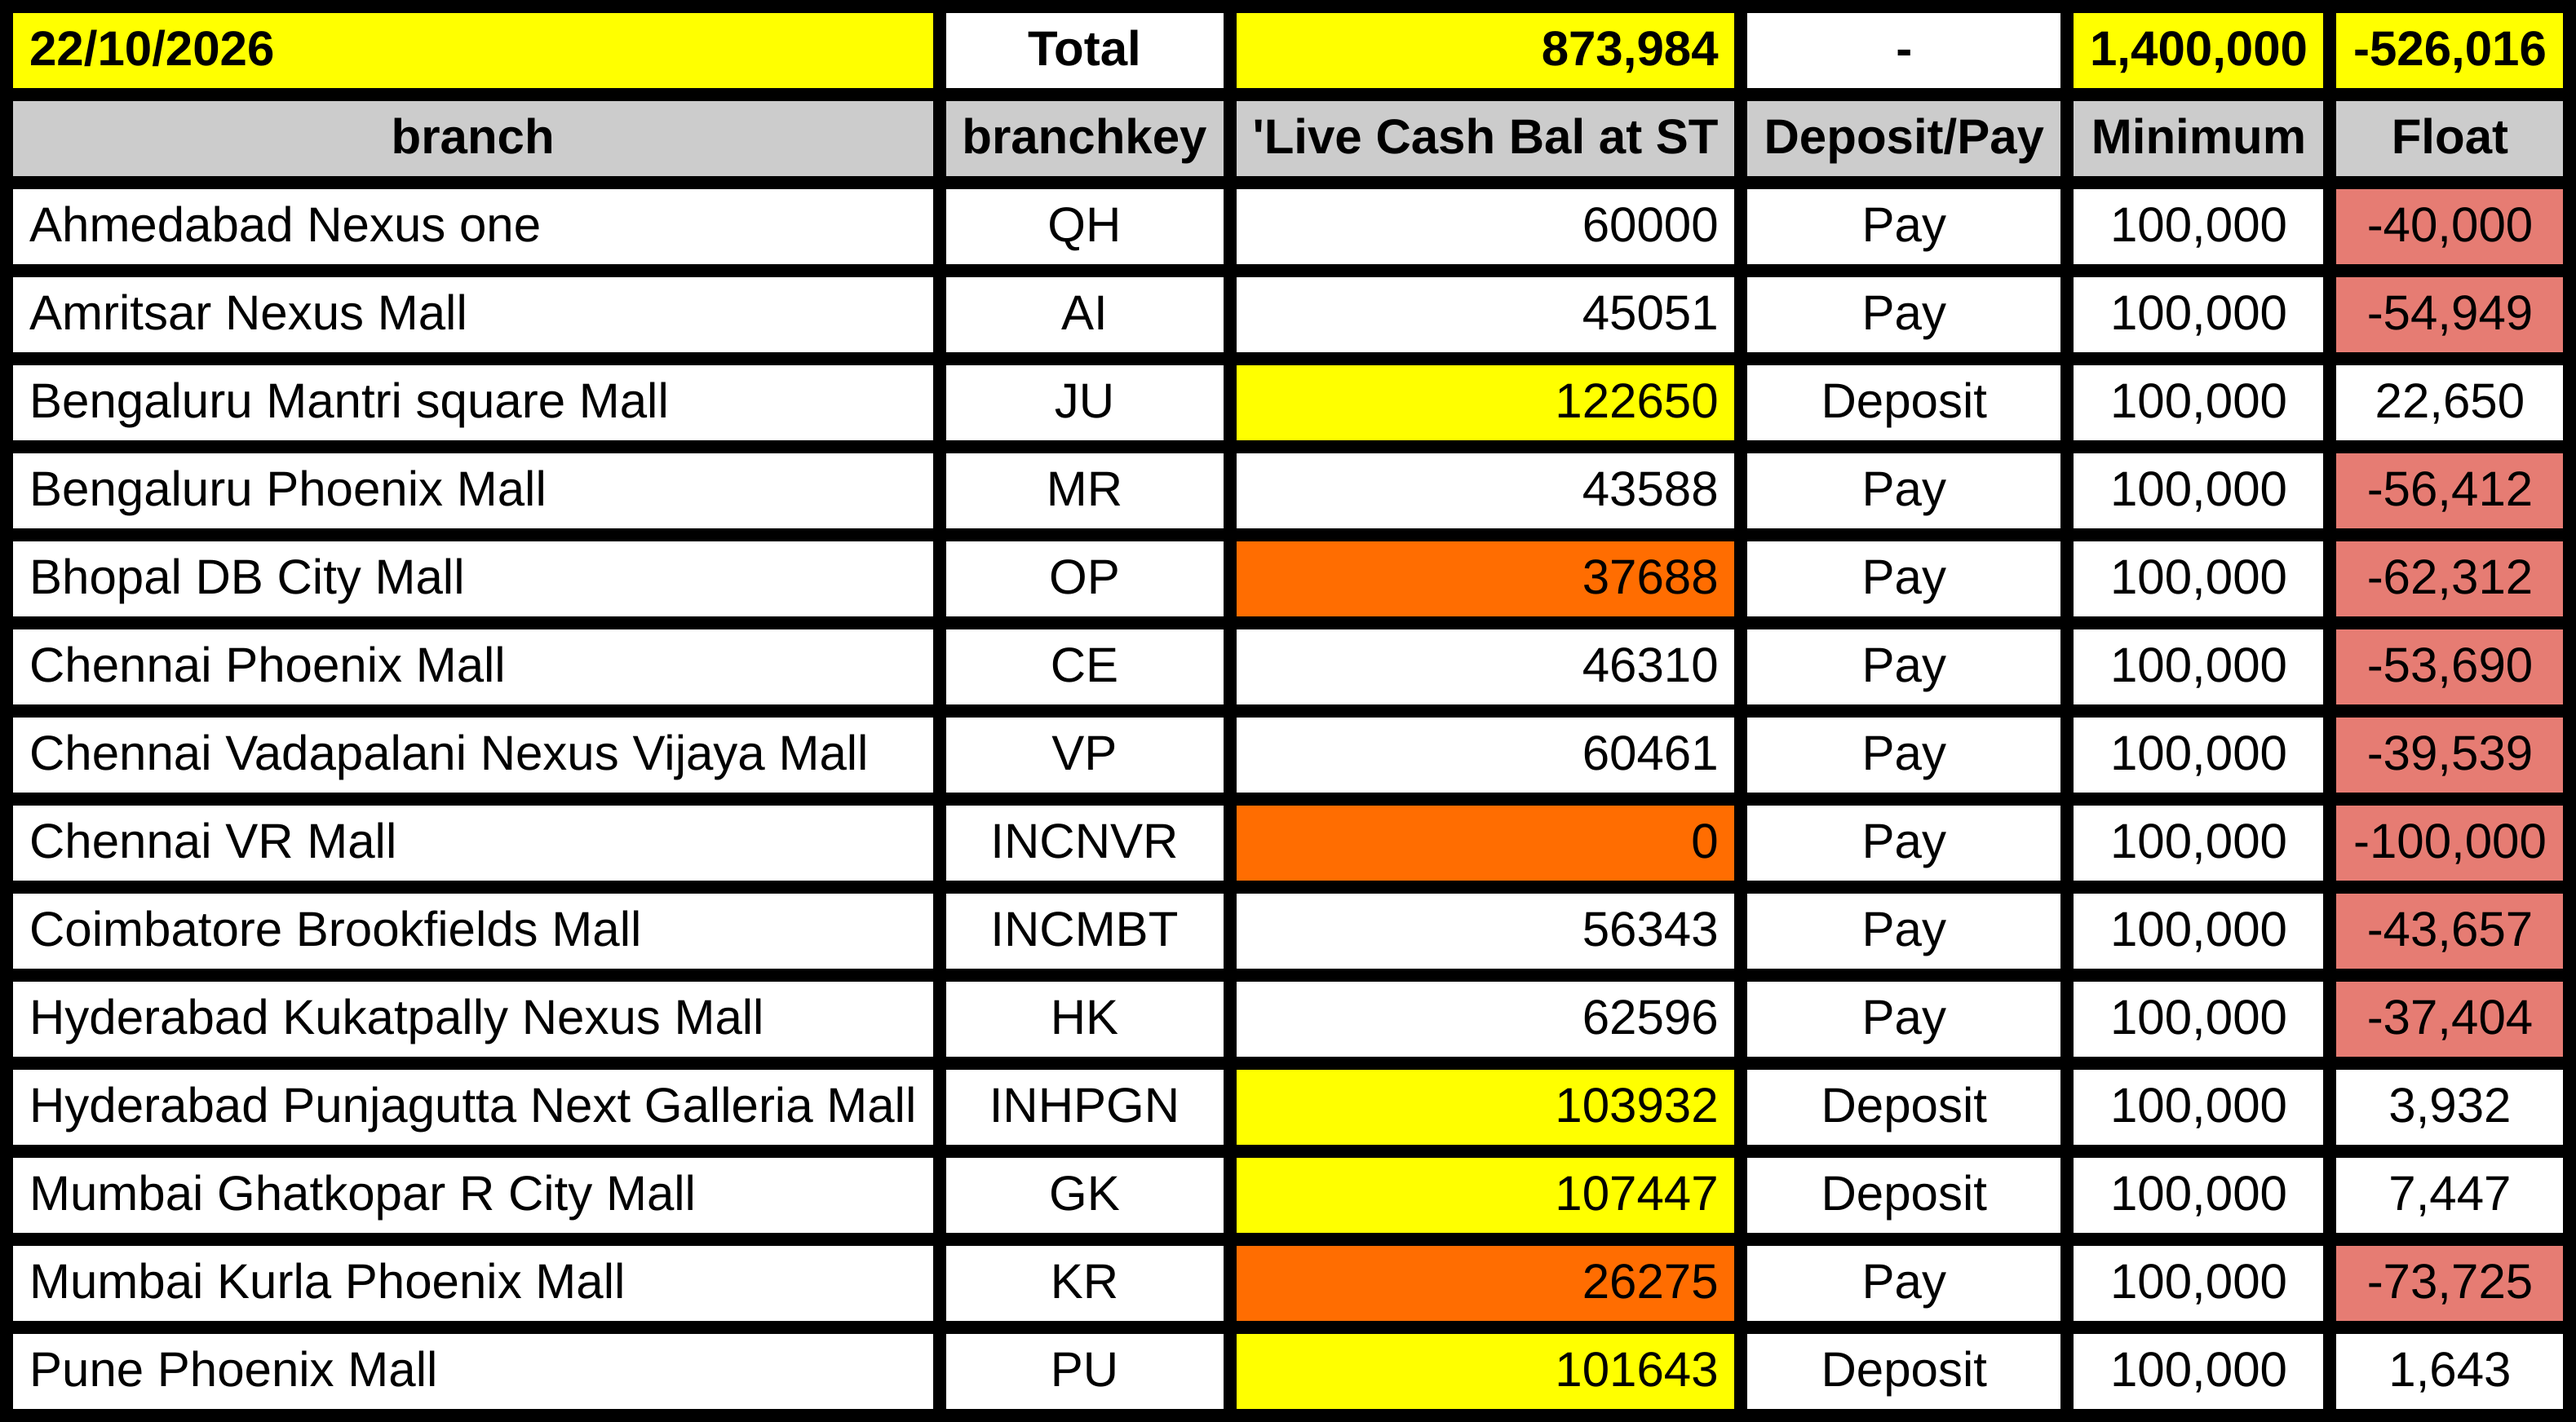
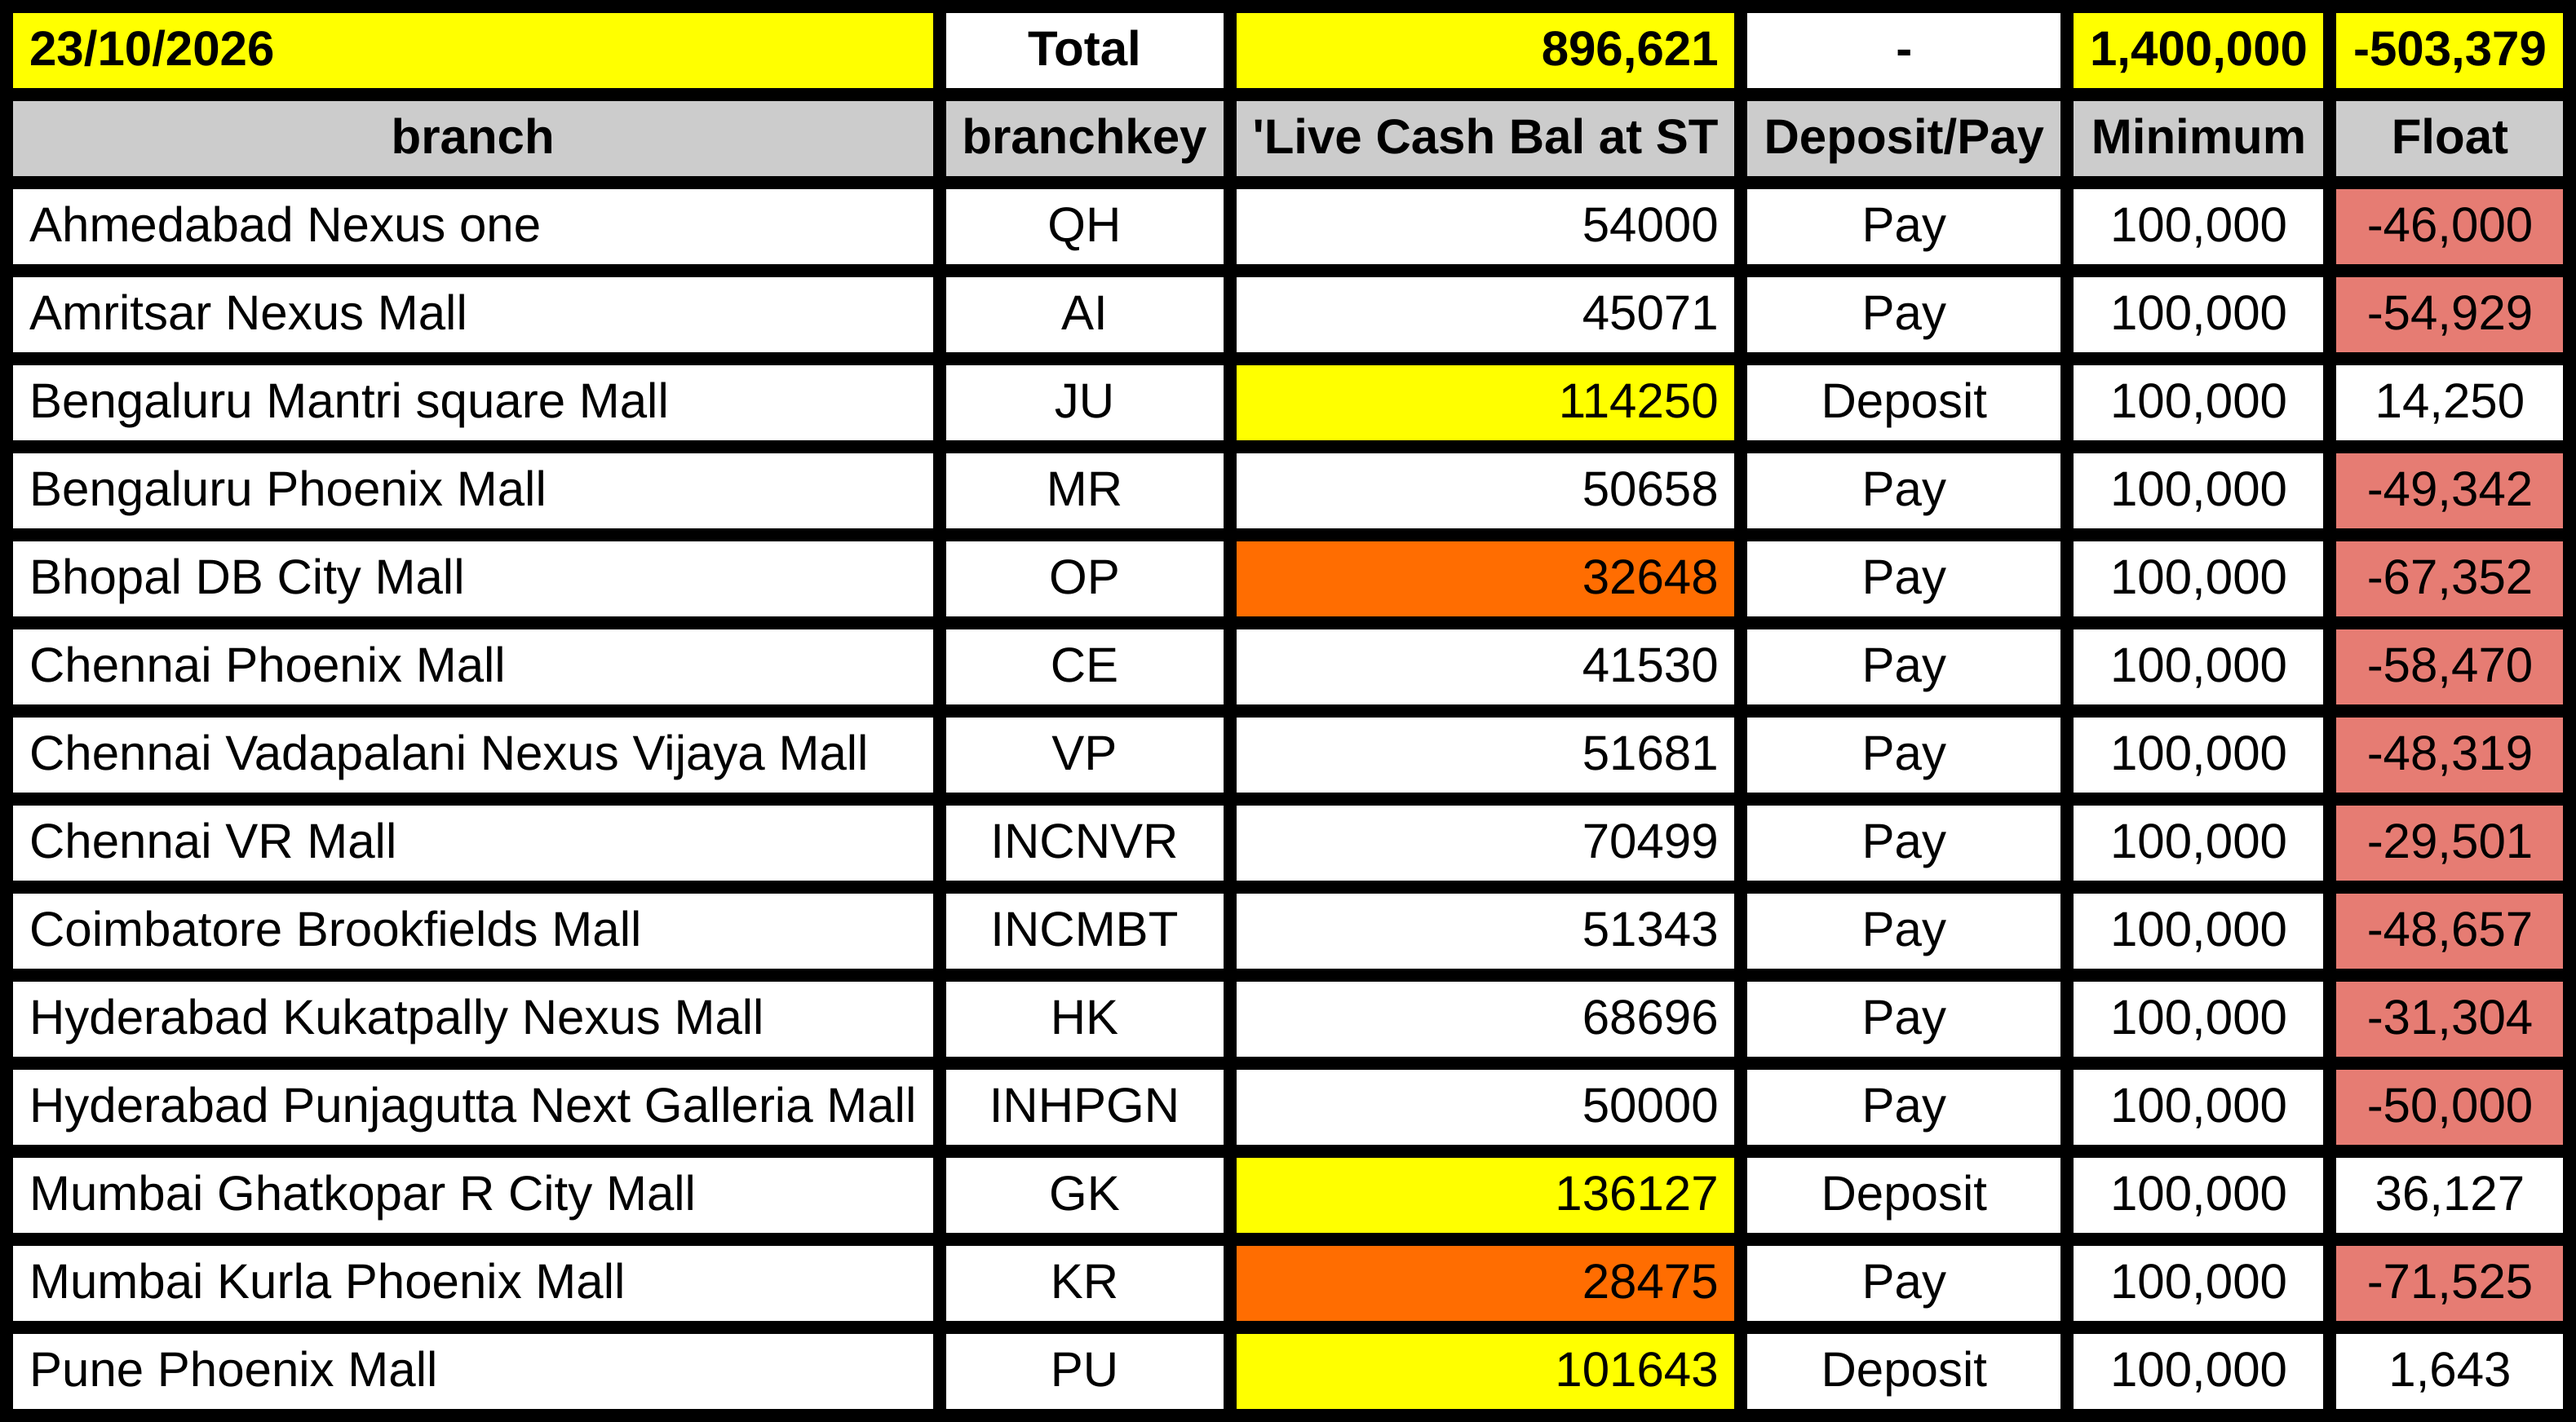
deploy: 1eb6ce62876c9d41067b4594acfaffc291ee4c8b

diff --git a/table.html b/table.html
@@ -21,7 +21,7 @@
           font-family: Arial, sans-serif;
           font-size: 30px;
           white-space: nowrap;
-        ">22/10/2026</td>
+        ">23/10/2026</td>
       
         <td style="
           background-color: #ffffff;
@@ -49,7 +49,7 @@
           font-family: Arial, sans-serif;
           font-size: 30px;
           white-space: nowrap;
-        ">873,984</td>
+        ">896,621</td>
       
         <td style="
           background-color: #ffffff;
@@ -91,7 +91,7 @@
           font-family: Arial, sans-serif;
           font-size: 30px;
           white-space: nowrap;
-        ">-526,016</td>
+        ">-503,379</td>
       </tr><tr>
         <td style="
           background-color: #cccccc;
@@ -217,7 +217,7 @@
           font-family: Arial, sans-serif;
           font-size: 30px;
           white-space: nowrap;
-        ">60000</td>
+        ">54000</td>
       
         <td style="
           background-color: #ffffff;
@@ -259,7 +259,7 @@
           font-family: Arial, sans-serif;
           font-size: 30px;
           white-space: nowrap;
-        ">-40,000</td>
+        ">-46,000</td>
       </tr><tr>
         <td style="
           background-color: #ffffff;
@@ -301,7 +301,7 @@
           font-family: Arial, sans-serif;
           font-size: 30px;
           white-space: nowrap;
-        ">45051</td>
+        ">45071</td>
       
         <td style="
           background-color: #ffffff;
@@ -343,7 +343,7 @@
           font-family: Arial, sans-serif;
           font-size: 30px;
           white-space: nowrap;
-        ">-54,949</td>
+        ">-54,929</td>
       </tr><tr>
         <td style="
           background-color: #ffffff;
@@ -385,7 +385,7 @@
           font-family: Arial, sans-serif;
           font-size: 30px;
           white-space: nowrap;
-        ">122650</td>
+        ">114250</td>
       
         <td style="
           background-color: #ffffff;
@@ -427,7 +427,7 @@
           font-family: Arial, sans-serif;
           font-size: 30px;
           white-space: nowrap;
-        ">22,650</td>
+        ">14,250</td>
       </tr><tr>
         <td style="
           background-color: #ffffff;
@@ -469,7 +469,7 @@
           font-family: Arial, sans-serif;
           font-size: 30px;
           white-space: nowrap;
-        ">43588</td>
+        ">50658</td>
       
         <td style="
           background-color: #ffffff;
@@ -511,7 +511,7 @@
           font-family: Arial, sans-serif;
           font-size: 30px;
           white-space: nowrap;
-        ">-56,412</td>
+        ">-49,342</td>
       </tr><tr>
         <td style="
           background-color: #ffffff;
@@ -553,7 +553,7 @@
           font-family: Arial, sans-serif;
           font-size: 30px;
           white-space: nowrap;
-        ">37688</td>
+        ">32648</td>
       
         <td style="
           background-color: #ffffff;
@@ -595,7 +595,7 @@
           font-family: Arial, sans-serif;
           font-size: 30px;
           white-space: nowrap;
-        ">-62,312</td>
+        ">-67,352</td>
       </tr><tr>
         <td style="
           background-color: #ffffff;
@@ -637,7 +637,7 @@
           font-family: Arial, sans-serif;
           font-size: 30px;
           white-space: nowrap;
-        ">46310</td>
+        ">41530</td>
       
         <td style="
           background-color: #ffffff;
@@ -679,7 +679,7 @@
           font-family: Arial, sans-serif;
           font-size: 30px;
           white-space: nowrap;
-        ">-53,690</td>
+        ">-58,470</td>
       </tr><tr>
         <td style="
           background-color: #ffffff;
@@ -721,7 +721,7 @@
           font-family: Arial, sans-serif;
           font-size: 30px;
           white-space: nowrap;
-        ">60461</td>
+        ">51681</td>
       
         <td style="
           background-color: #ffffff;
@@ -763,7 +763,7 @@
           font-family: Arial, sans-serif;
           font-size: 30px;
           white-space: nowrap;
-        ">-39,539</td>
+        ">-48,319</td>
       </tr><tr>
         <td style="
           background-color: #ffffff;
@@ -794,7 +794,7 @@
         ">INCNVR</td>
       
         <td style="
-          background-color: #ff6d01;
+          background-color: #ffffff;
           color: #000000;
           font-weight: normal;
           font-style: normal;
@@ -805,7 +805,7 @@
           font-family: Arial, sans-serif;
           font-size: 30px;
           white-space: nowrap;
-        ">0</td>
+        ">70499</td>
       
         <td style="
           background-color: #ffffff;
@@ -847,7 +847,7 @@
           font-family: Arial, sans-serif;
           font-size: 30px;
           white-space: nowrap;
-        ">-100,000</td>
+        ">-29,501</td>
       </tr><tr>
         <td style="
           background-color: #ffffff;
@@ -889,7 +889,7 @@
           font-family: Arial, sans-serif;
           font-size: 30px;
           white-space: nowrap;
-        ">56343</td>
+        ">51343</td>
       
         <td style="
           background-color: #ffffff;
@@ -931,7 +931,7 @@
           font-family: Arial, sans-serif;
           font-size: 30px;
           white-space: nowrap;
-        ">-43,657</td>
+        ">-48,657</td>
       </tr><tr>
         <td style="
           background-color: #ffffff;
@@ -973,7 +973,7 @@
           font-family: Arial, sans-serif;
           font-size: 30px;
           white-space: nowrap;
-        ">62596</td>
+        ">68696</td>
       
         <td style="
           background-color: #ffffff;
@@ -1015,7 +1015,7 @@
           font-family: Arial, sans-serif;
           font-size: 30px;
           white-space: nowrap;
-        ">-37,404</td>
+        ">-31,304</td>
       </tr><tr>
         <td style="
           background-color: #ffffff;
@@ -1046,7 +1046,7 @@
         ">INHPGN</td>
       
         <td style="
-          background-color: #ffff00;
+          background-color: #ffffff;
           color: #000000;
           font-weight: normal;
           font-style: normal;
@@ -1057,7 +1057,7 @@
           font-family: Arial, sans-serif;
           font-size: 30px;
           white-space: nowrap;
-        ">103932</td>
+        ">50000</td>
       
         <td style="
           background-color: #ffffff;
@@ -1071,7 +1071,7 @@
           font-family: Arial, sans-serif;
           font-size: 30px;
           white-space: nowrap;
-        ">Deposit</td>
+        ">Pay</td>
       
         <td style="
           background-color: #ffffff;
@@ -1088,7 +1088,7 @@
         ">100,000</td>
       
         <td style="
-          background-color: #ffffff;
+          background-color: #e67c73;
           color: #000000;
           font-weight: normal;
           font-style: normal;
@@ -1099,7 +1099,7 @@
           font-family: Arial, sans-serif;
           font-size: 30px;
           white-space: nowrap;
-        ">3,932</td>
+        ">-50,000</td>
       </tr><tr>
         <td style="
           background-color: #ffffff;
@@ -1141,7 +1141,7 @@
           font-family: Arial, sans-serif;
           font-size: 30px;
           white-space: nowrap;
-        ">107447</td>
+        ">136127</td>
       
         <td style="
           background-color: #ffffff;
@@ -1183,7 +1183,7 @@
           font-family: Arial, sans-serif;
           font-size: 30px;
           white-space: nowrap;
-        ">7,447</td>
+        ">36,127</td>
       </tr><tr>
         <td style="
           background-color: #ffffff;
@@ -1225,7 +1225,7 @@
           font-family: Arial, sans-serif;
           font-size: 30px;
           white-space: nowrap;
-        ">26275</td>
+        ">28475</td>
       
         <td style="
           background-color: #ffffff;
@@ -1267,7 +1267,7 @@
           font-family: Arial, sans-serif;
           font-size: 30px;
           white-space: nowrap;
-        ">-73,725</td>
+        ">-71,525</td>
       </tr><tr>
         <td style="
           background-color: #ffffff;
